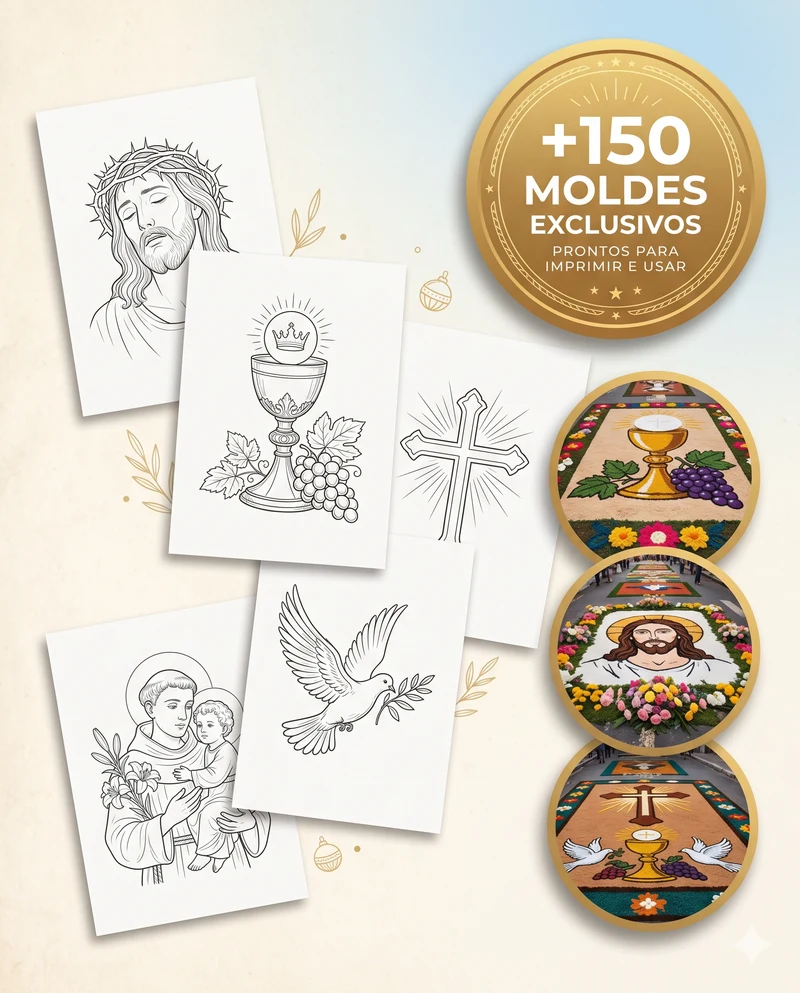
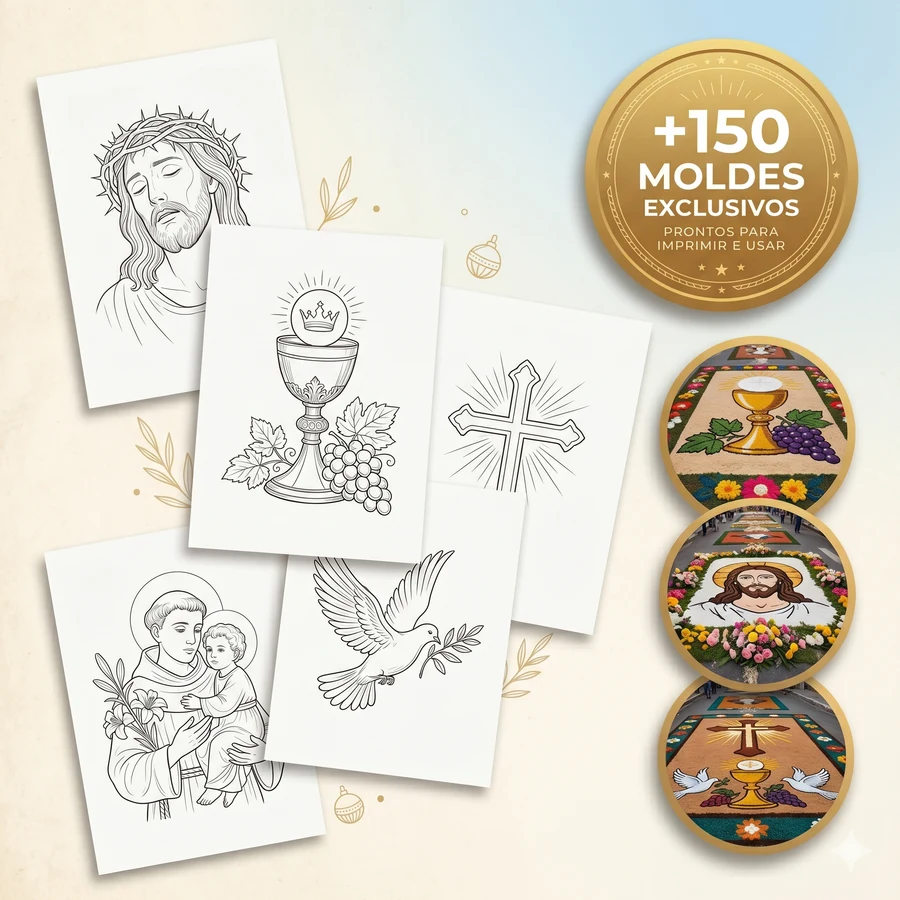
Hero: substitui composição pela versão quadrada 1:1 (Gemini)
Nova imagem do Gemini gerada em formato quadrado correto.

PNG original: 2048x2048 (7 MB)
WebP final:   900x900 (113 KB)

HTML: width/height atualizados de 800x993 → 900x900 nos 2 <img>
(hero + premium card).

diff --git a/index.html b/index.html
@@ -117,7 +117,7 @@
             <div class="hero-mockup">
                 <img src="images/hero-composicao.webp"
                      alt="+150 moldes de tapetes para Corpus Christi: Jesus, cálice, cruz, pomba e Santo Antônio prontos para imprimir e exemplos de tapetes montados"
-                     width="800" height="993"
+                     width="900" height="900"
                      loading="eager"
                      fetchpriority="high">
             </div>
@@ -399,7 +399,7 @@
                         <img src="images/hero-composicao.webp"
                              alt="150 Moldes de Tapetes para Corpus Christi — Plano Premium"
                              class="premium-cover"
-                             width="800" height="993"
+                             width="900" height="900"
                              loading="lazy">
                     </div>
 
